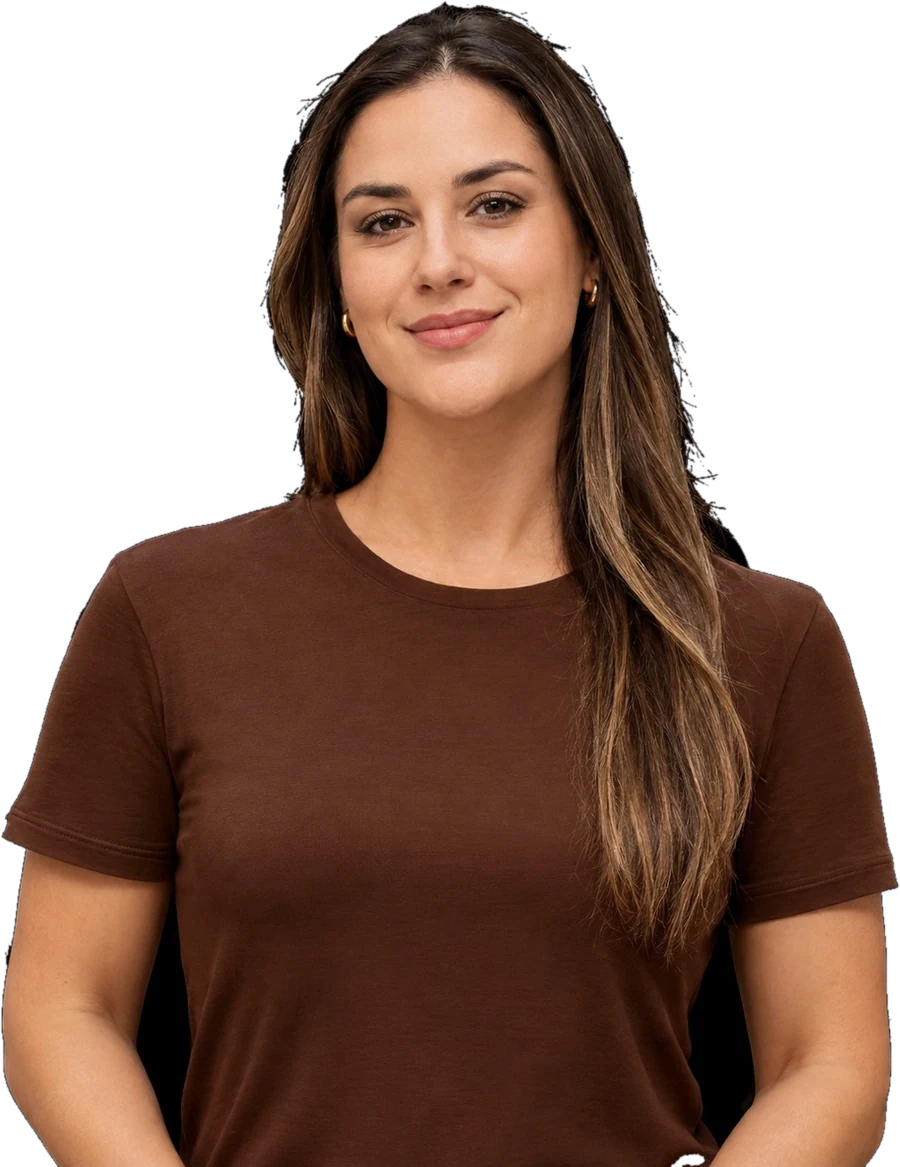
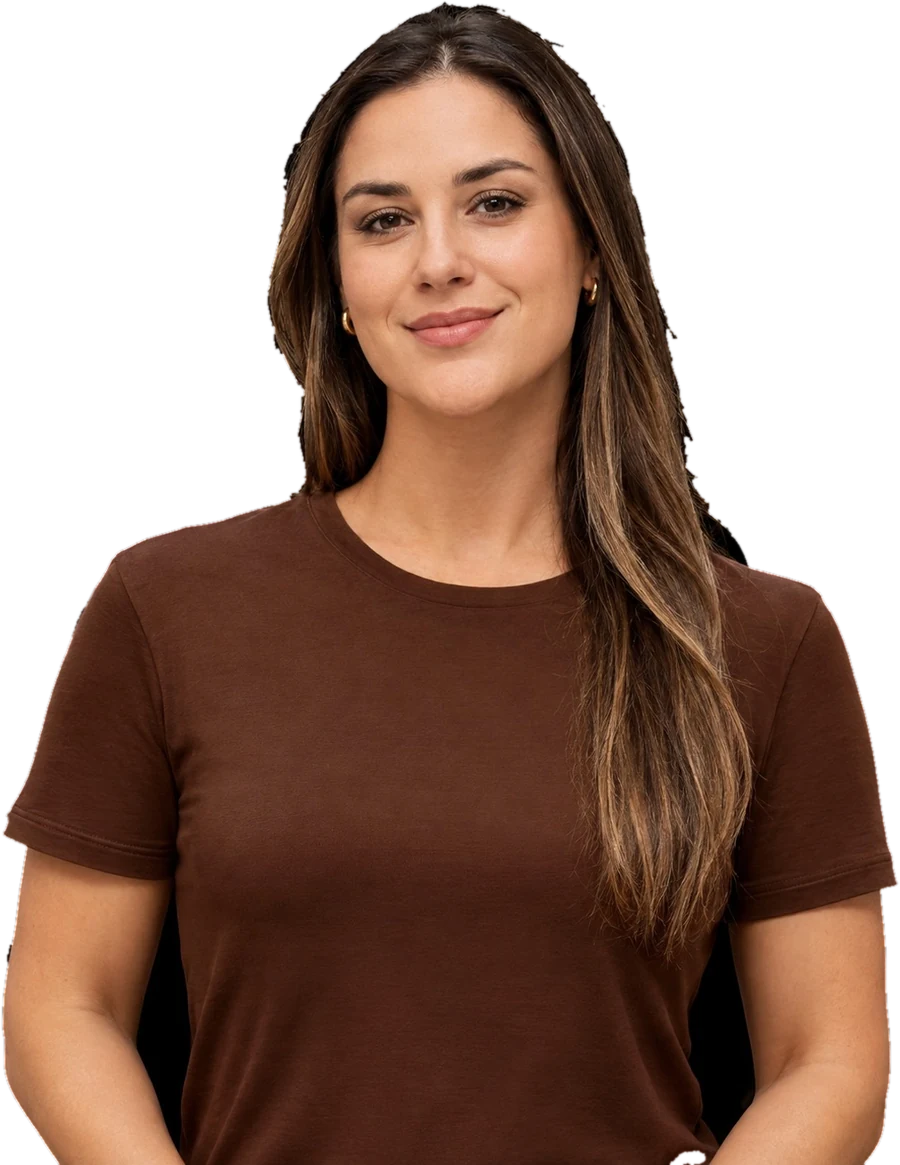
Sobe a versao do CSS, cartao branco e recorte do cabelo sem franja
CACHE — a causa das duas queixas 'nao mudou'
O link do CSS continuava em ?v=173 desde a primeira versao da h=2, entao o
navegador servia o arquivo antigo e nenhuma mudanca de estilo chegava. No print
o nome aparecia em x=650 de 1858, que e exatamente onde ficava o flex-start
anterior. Versao agora em 180.

CARTAO
Branco (--card), que e a cor dos cartoes de opcao no resto do quiz. Estava em
--card-active, um bege que so existia nesta tela.

RECORTE
A silhueta encolhe 1px antes do desfoque: entre cabelo e fundo ha uma faixa de
pixels quase pretos que sobrava como franja escura sobre o cartao claro. Custa
um fio e tira o contorno sujo. E a beirada semitransparente e descontaminada —
ela ainda carregava o preto do fundo original e virava halo cinza.

diff --git a/quiz/v2/index.html b/quiz/v2/index.html
@@ -56,7 +56,7 @@
   <link rel="preconnect" href="https://fonts.googleapis.com"/>
   <link rel="preconnect" href="https://fonts.gstatic.com" crossorigin/>
   <link rel="preload" as="style" href="https://fonts.googleapis.com/css2?family=Inter:wght@400;500;600;700;800;900&display=swap"/>
-  <link rel="stylesheet" href="quiz-warm.css?v=173"/>
+  <link rel="stylesheet" href="quiz-warm.css?v=180"/>
 </head>
 <body>
 

diff --git a/quiz/v2/quiz-warm.css b/quiz/v2/quiz-warm.css
@@ -3708,7 +3708,7 @@ body.marca-na-tela-1:has(#s1.screen.active) .wrap {
   border: 0;
   border-radius: 14px;
   overflow: hidden;
-  background: var(--card-active);
+  background: var(--card);        /* branco, igual aos cartões de opção do quiz */
   min-height: 0;
   height: 100%;
   cursor: pointer;
